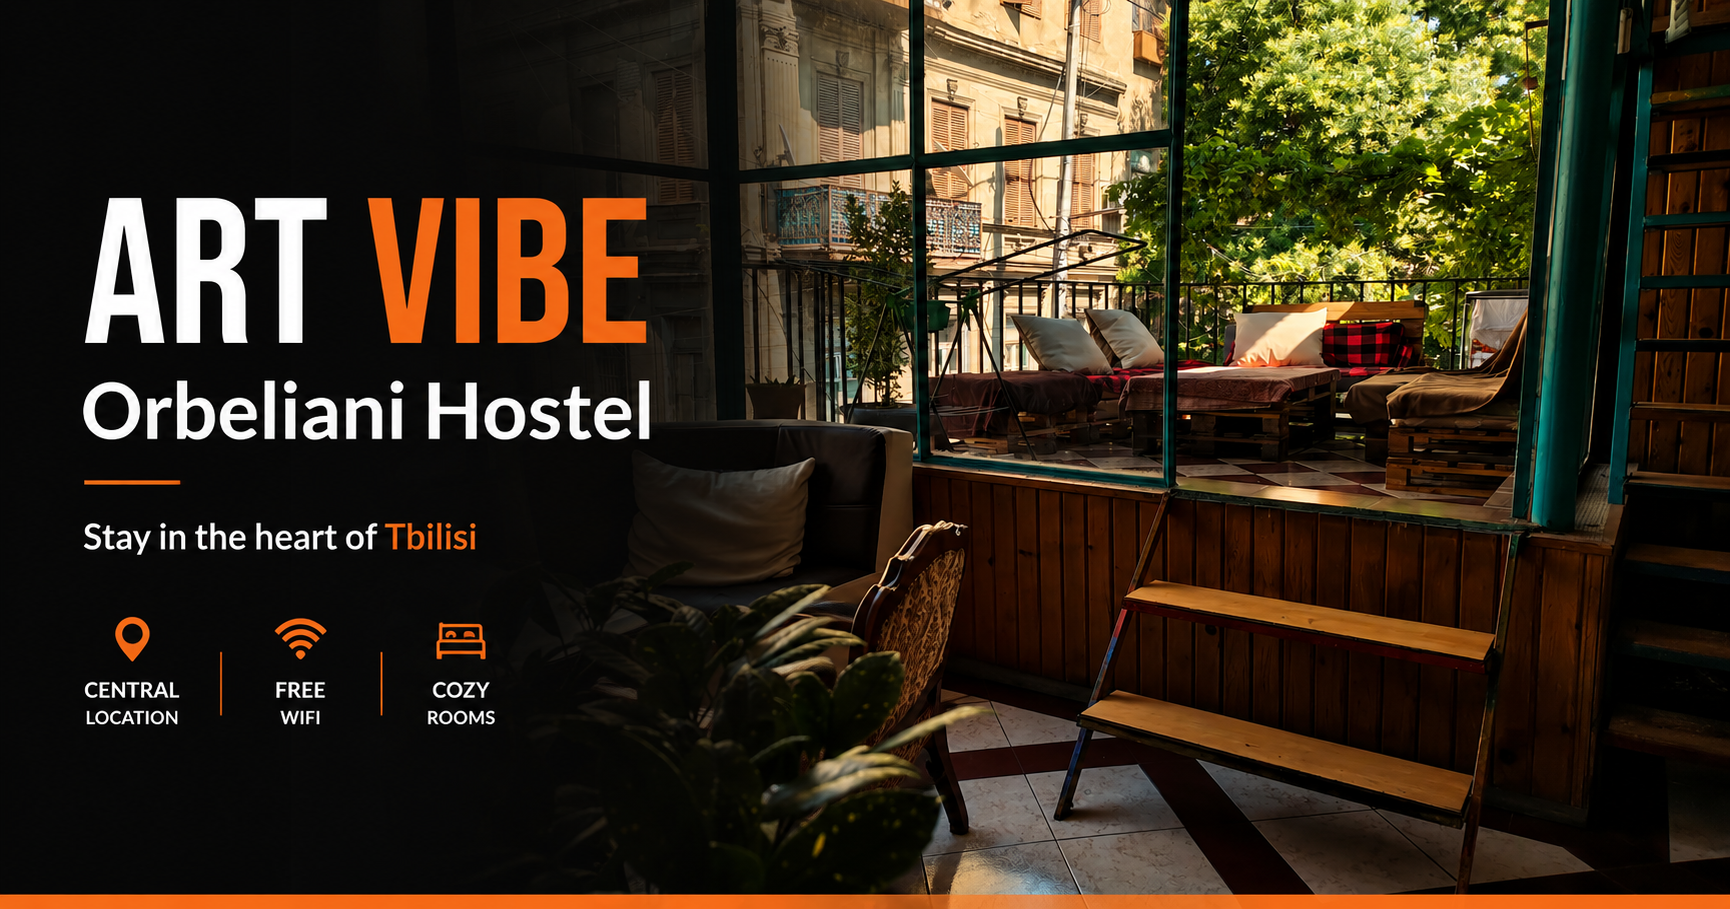
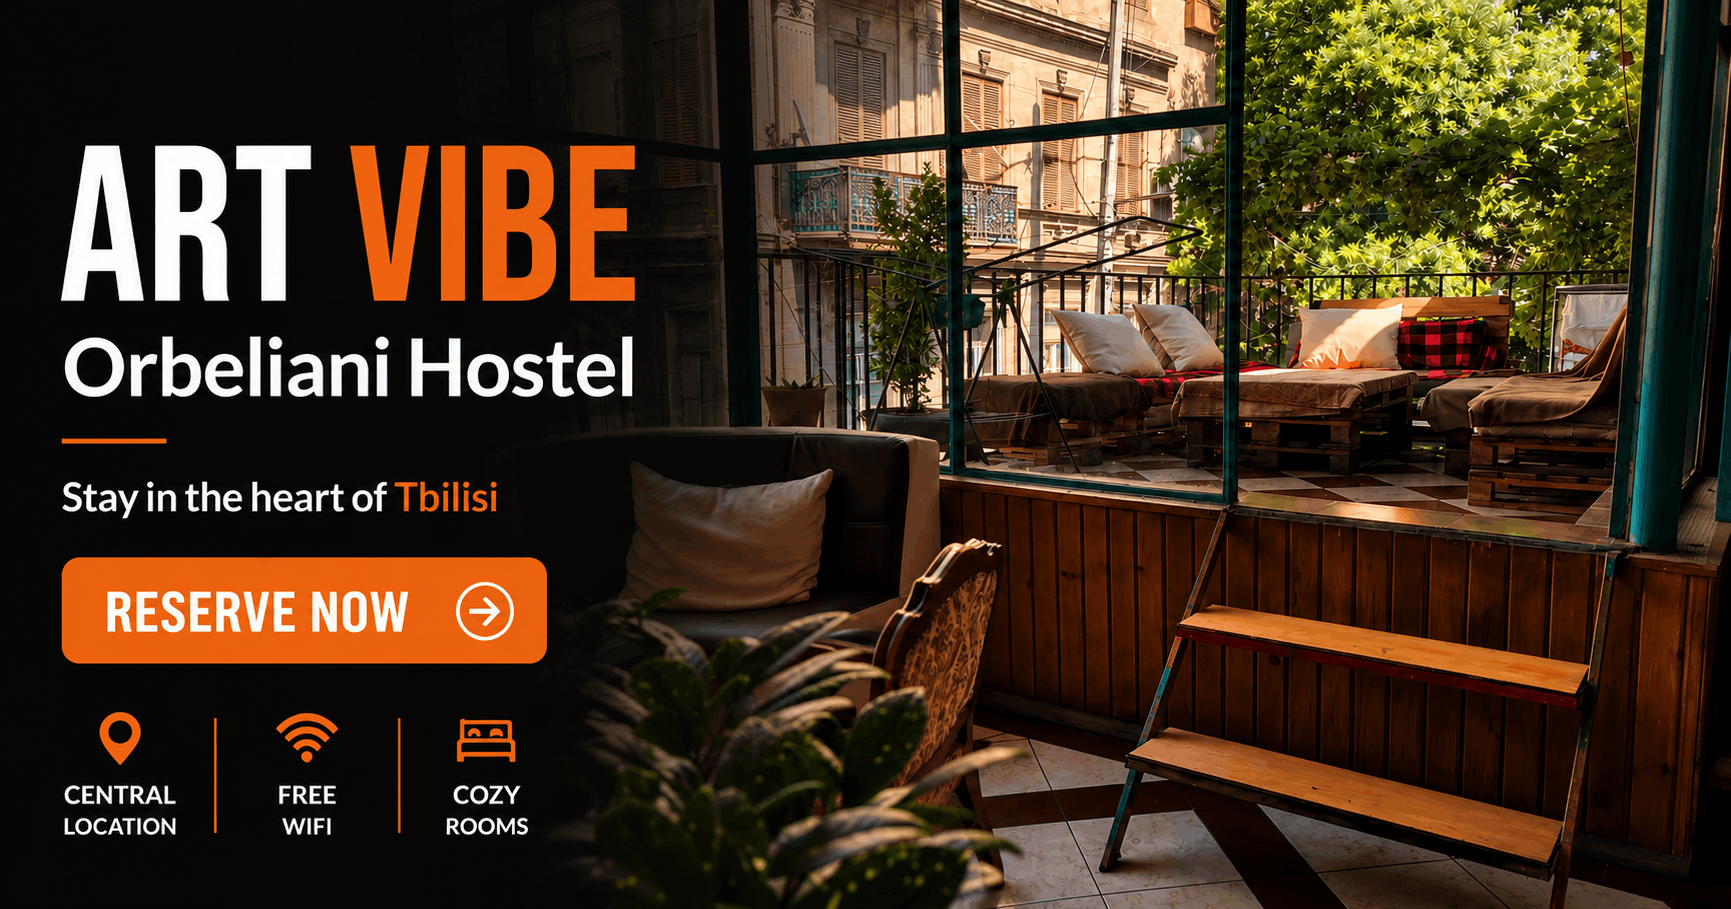
Update og image

diff --git a/index.html b/index.html
@@ -10,7 +10,7 @@
   <meta property="og:title"
     content="ART VIBE Orbeliani Hostel | Stay in Central Tbilisi">
   <meta property="og:description"
-    content="Stay in the heart of Tbilisi with cozy private rooms and affordable dorms. Free WiFi, shared kitchen, terrace, and direct booking.">
+    content="Stay in the heart of Tbilisi with cozy private rooms and affordable dorms. Book directly for better price.">
   <meta property="og:image"
     content="https://hostel.art-vibe-orbeliani.workers.dev/Assets/og-image.png">
   <meta property="og:image:width" content="1730">
